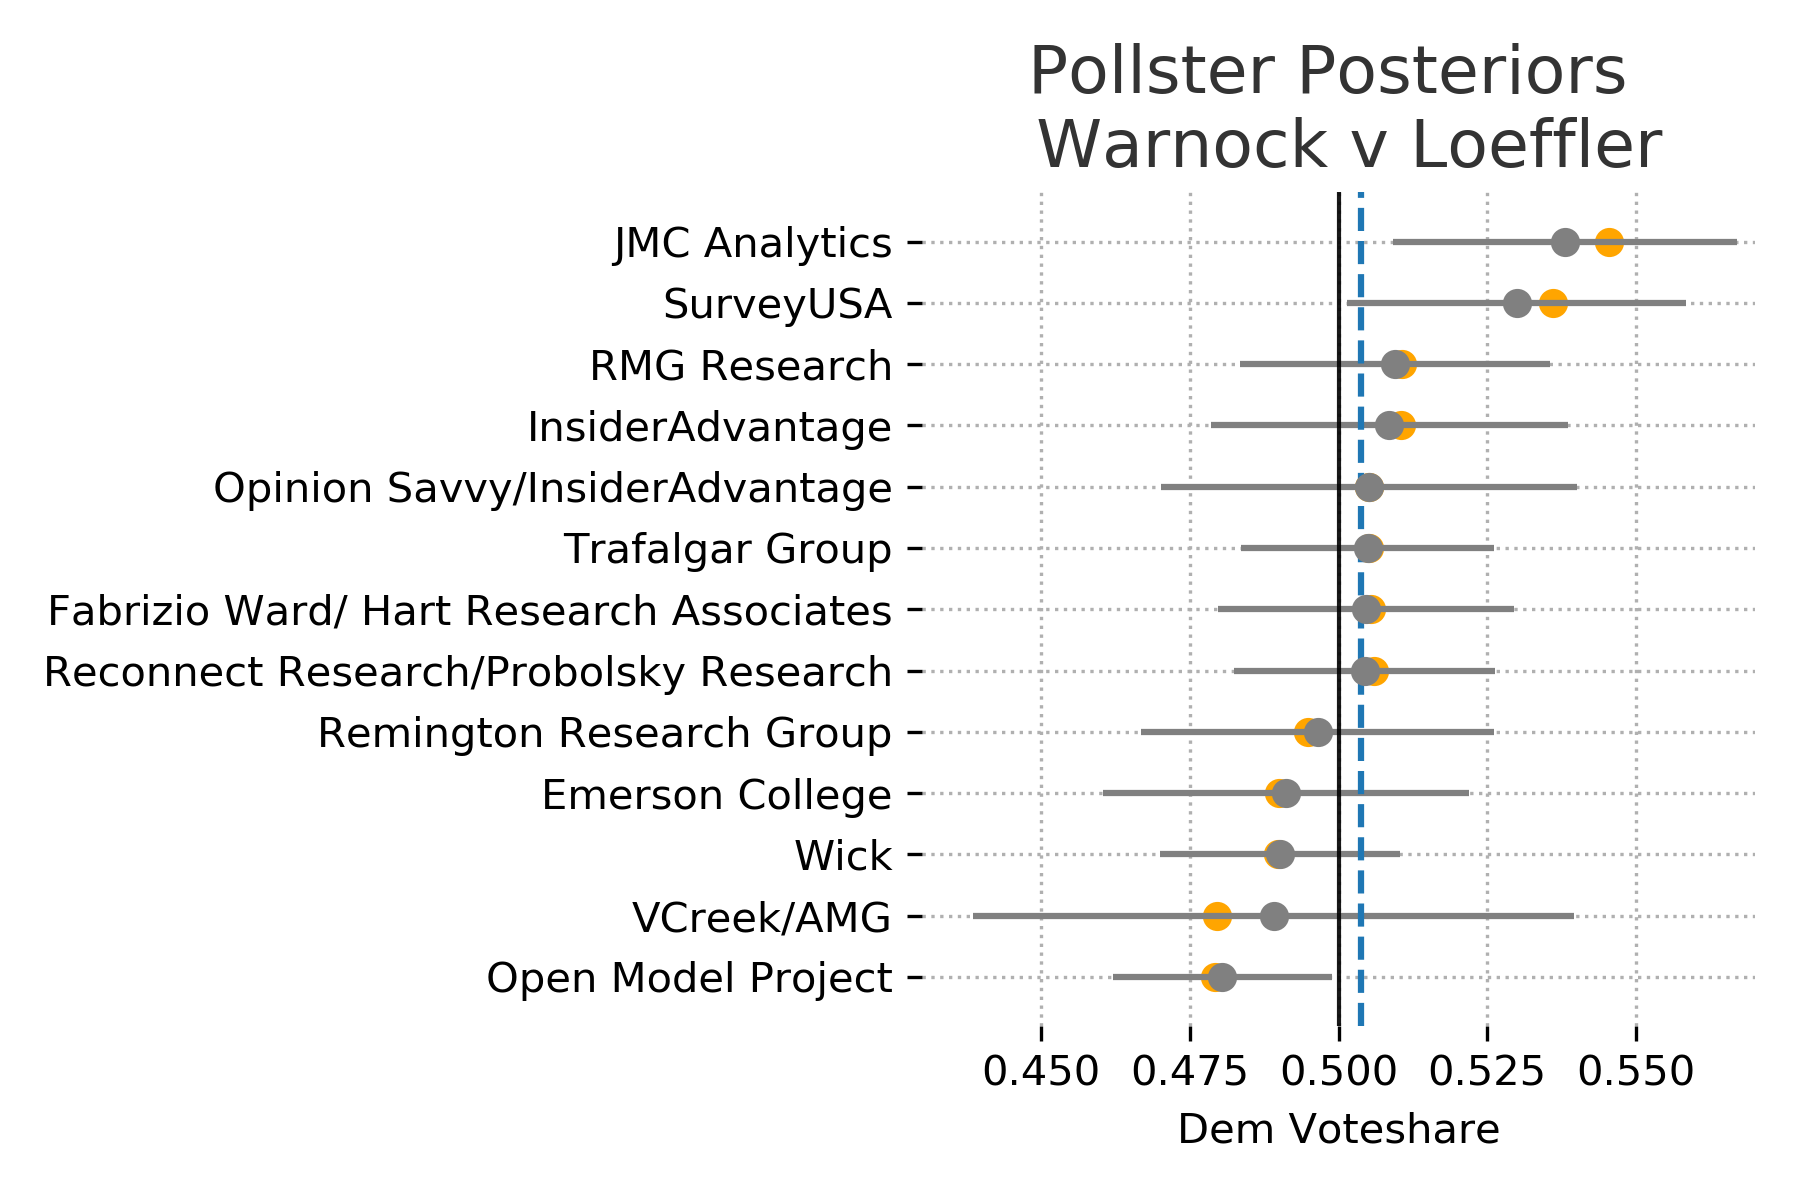
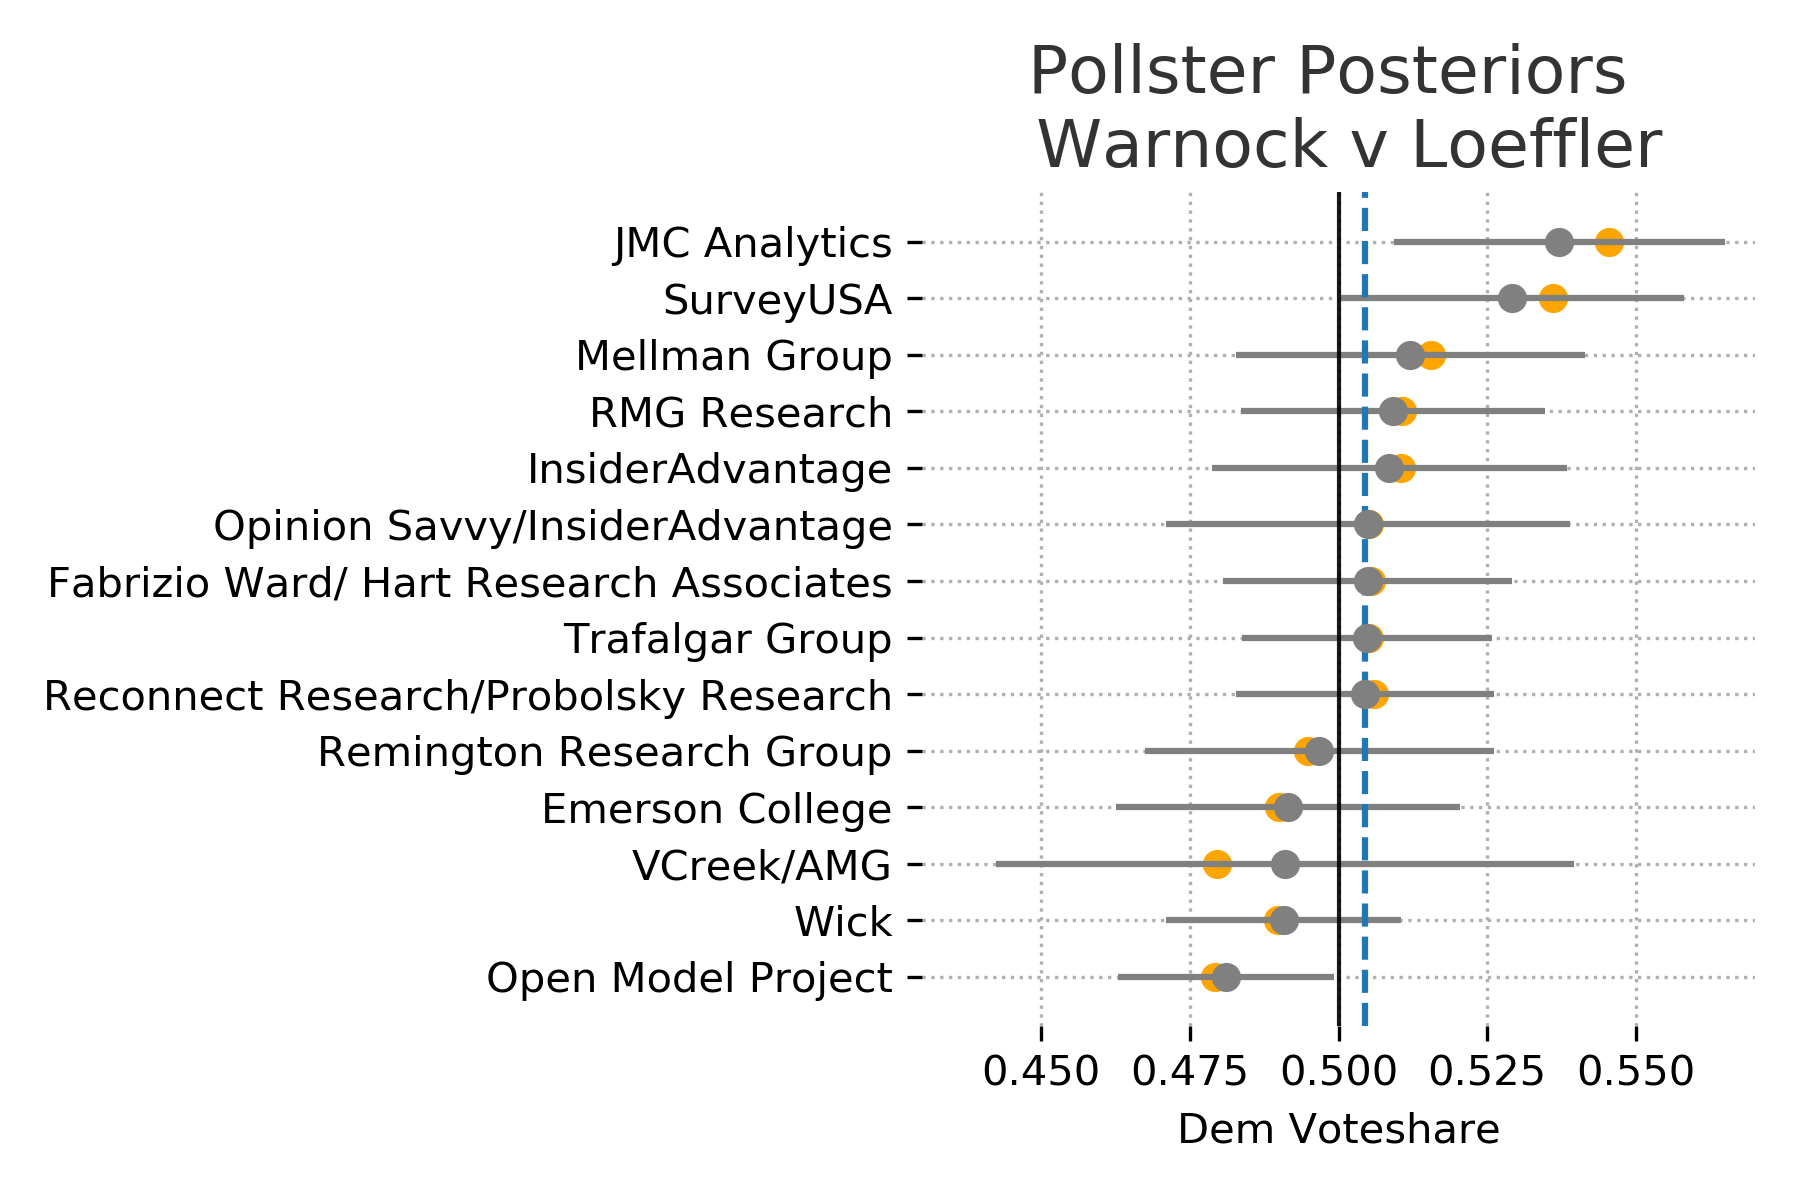
updated with recent polls

Changed region(s): [[0.0311, 0.1542, 0.9333, 0.8633]]

diff --git a/_posts/2020-12-18-election.md b/_posts/2020-12-18-election.md
@@ -4,14 +4,14 @@ title: Hierarchical Partial Pooling for Georgia Runoff Elections
 published: True
 ---
 
-Updated: Dec 30, 2020
+Updated: Jan 1, 2020
 
 # Warnock: 57.7% - Loeffler: 42.3% 
 
 {: .center}
 ![WL Posterior](../images/ga_wl_posteriors.png)
 
-# Ossoff: 46.4% - Perdue: 53.6% 
+# Ossoff: 50.4% - Perdue: 49.6% 
 
 {: .center}
 ![WL Posterior](../images/ga_op_posteriors.png)
@@ -22,10 +22,10 @@ Updated: Dec 30, 2020
 
 | Candidate | Mean | 80% Interval |
 | ----------|------|--------------|
-| Ossoff    | 49.8 | 47.7 - 52.3  |
-| Perdue    | 50.2 | 47.7 - 52.3  |
-| Warnock   | 50.3 | 48.2 - 52.5  |
-| Loeffler  | 49.7 | 47.5 - 51.8  |
+| Ossoff    | 50.0 | 48.0 - 52.0  |
+| Perdue    | 50.2 | 48.0 - 52.0  |
+| Warnock   | 50.4 | 48.6 - 52.4  |
+| Loeffler  | 49.6 | 47.6 - 51.4  |
 
 ## Methods
 
